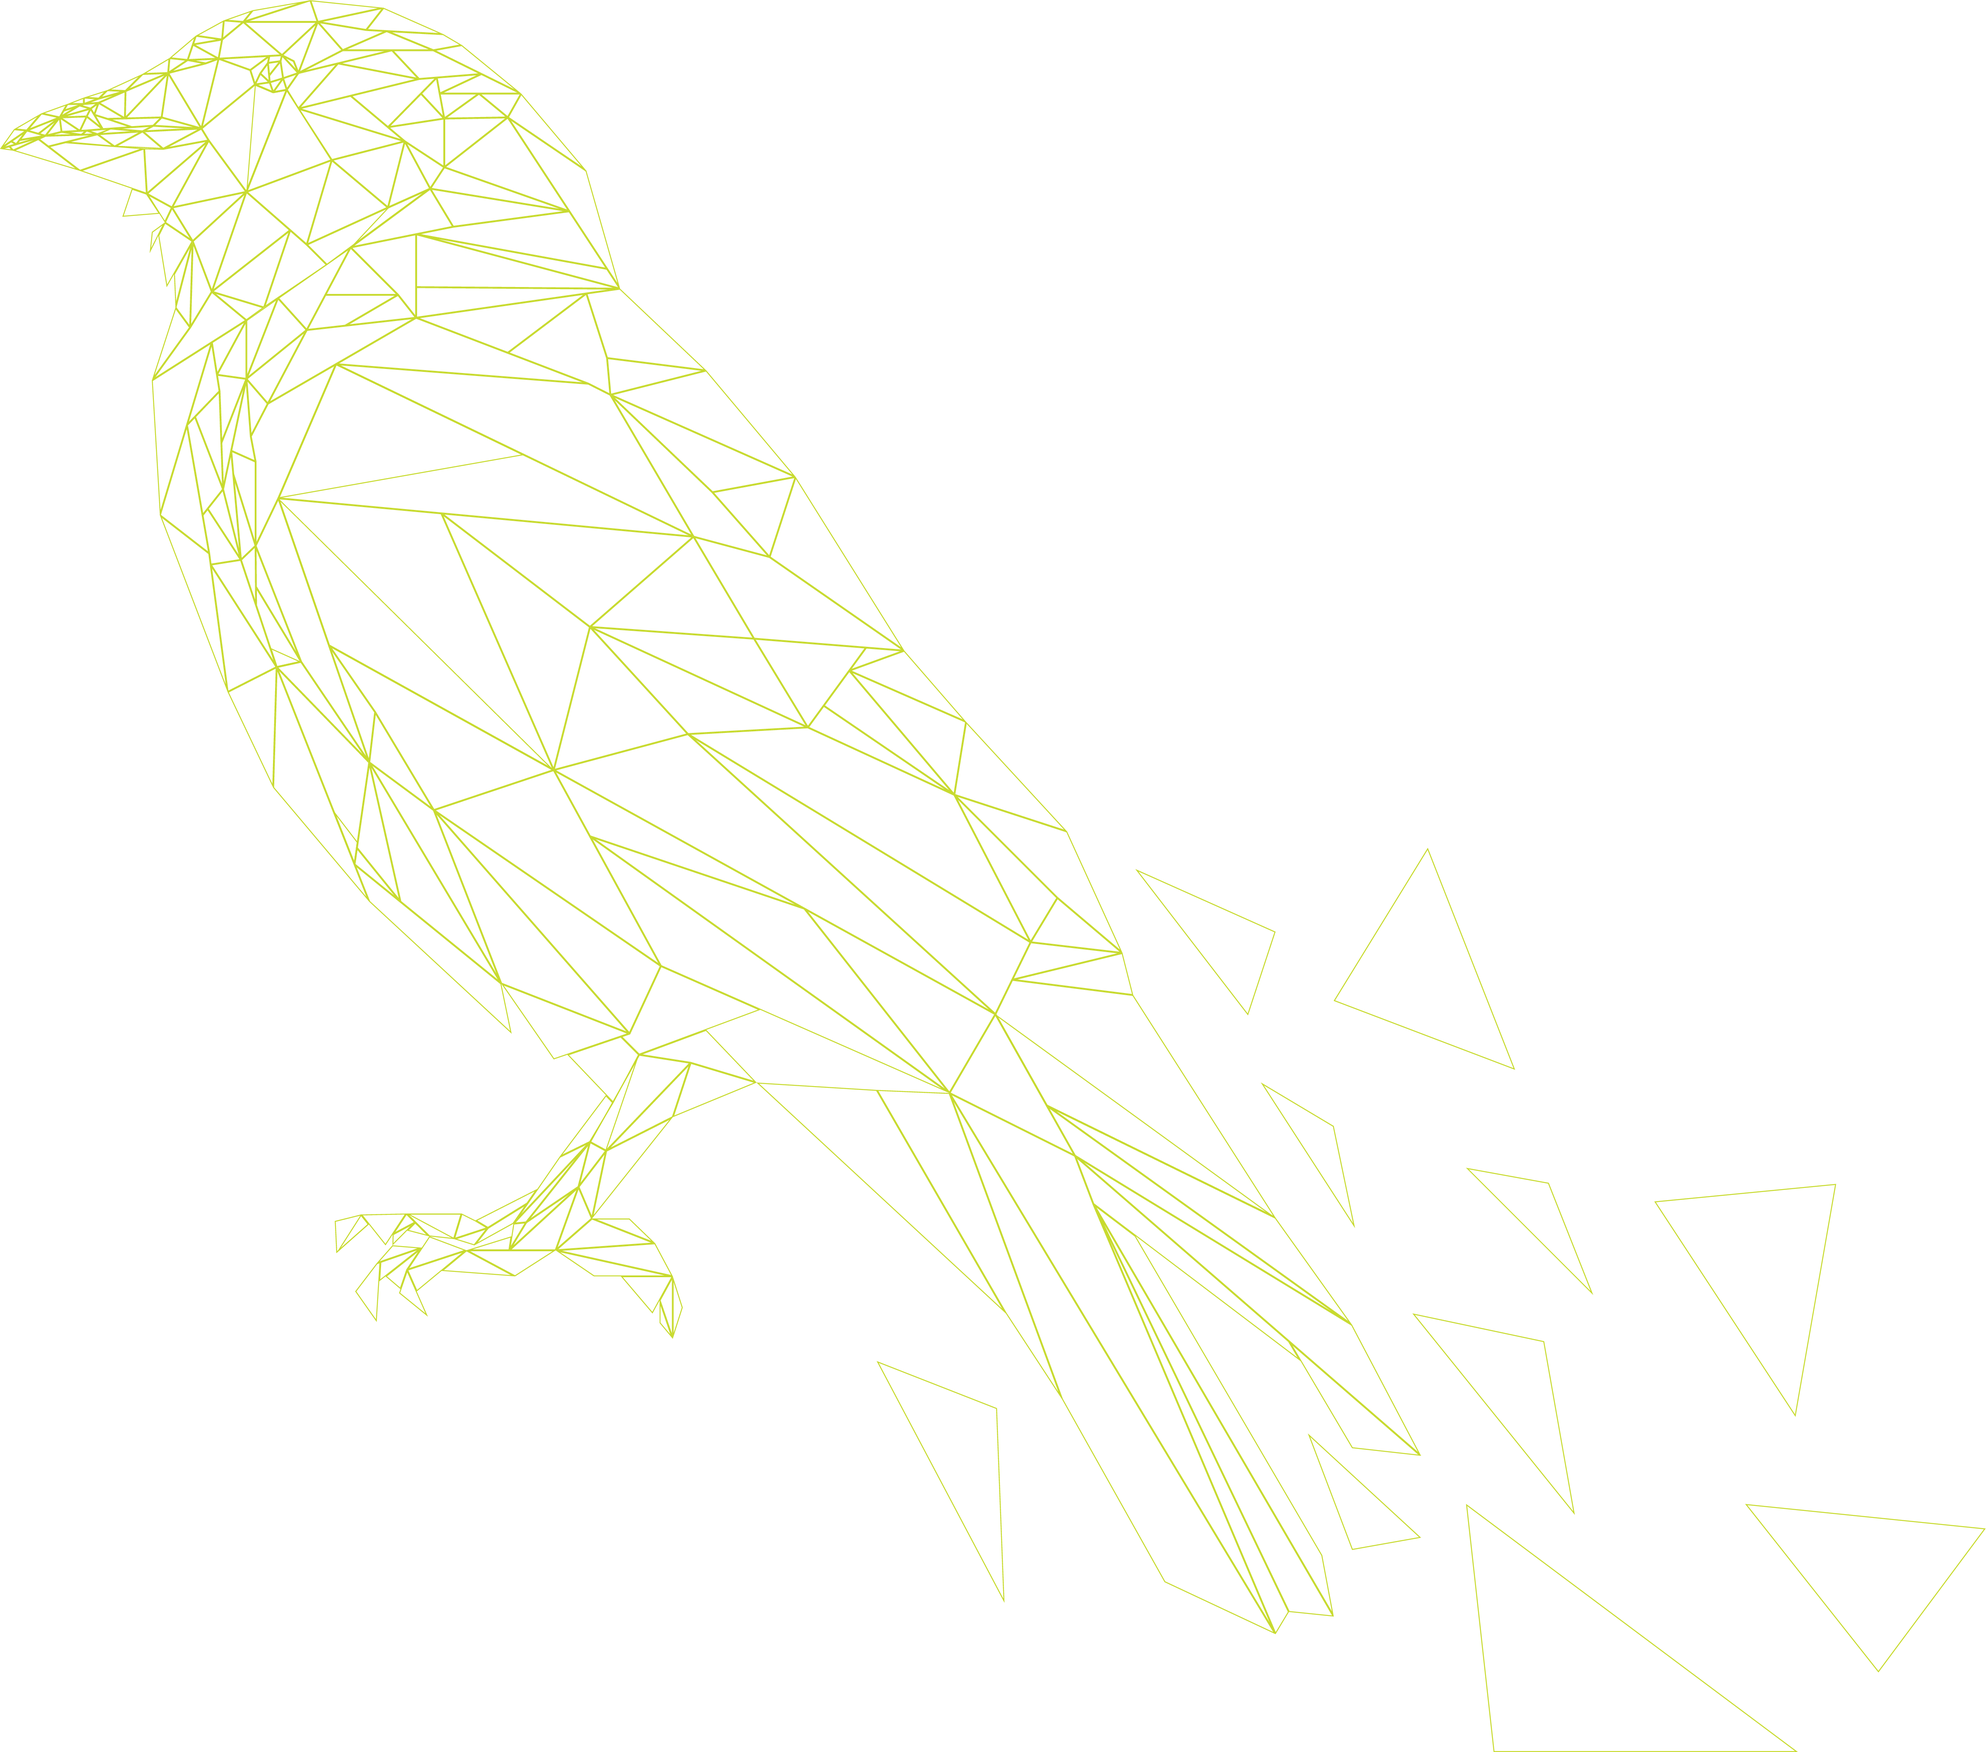
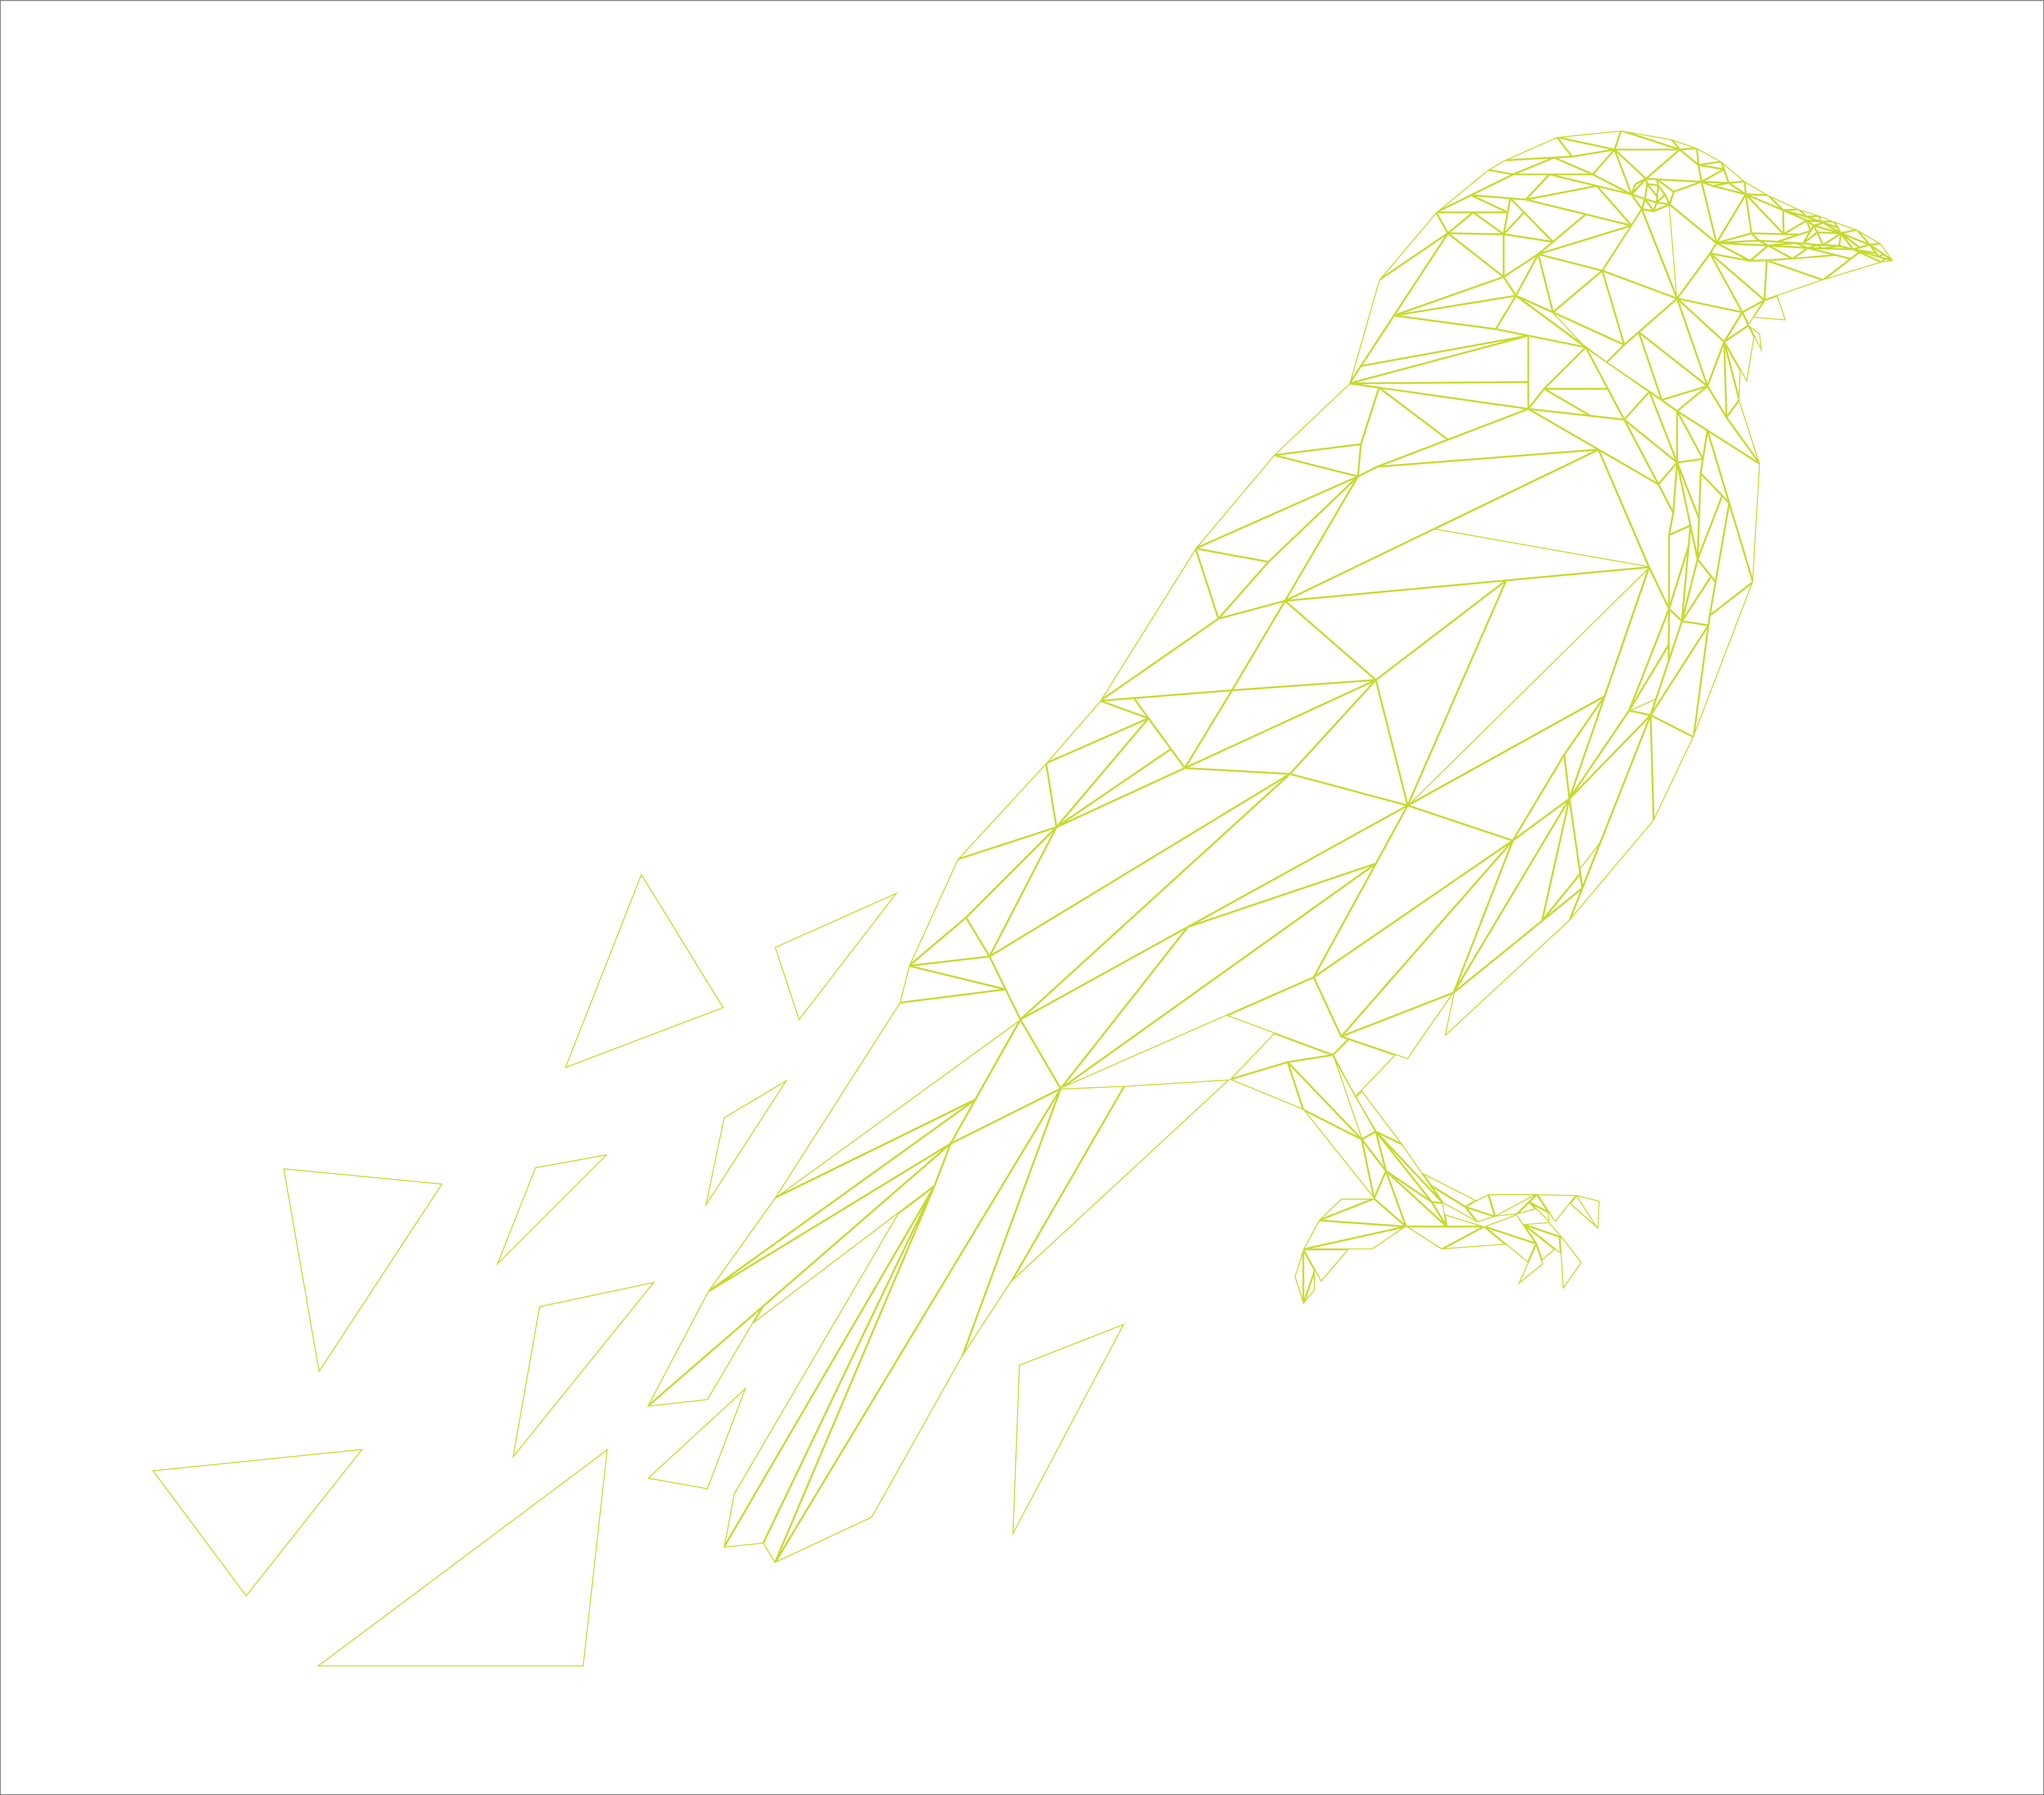
Add background image

diff --git a/index.html b/index.html
@@ -3,7 +3,7 @@ layout: default
 ---
 
 <body>
-  <main id="main">
+  <main id="main" class="main-bg">
     <div class="grid">
       <div class="banner banner-pad xs-1 unit wrapper">
 

diff --git a/css/main.css b/css/main.css
@@ -7,6 +7,7 @@ html {
 .main-bg {
   background-image: url("/images/geoblackbird-lines.png");
   background-repeat: no-repeat;
+  background-size: contain;
 
 }
 
